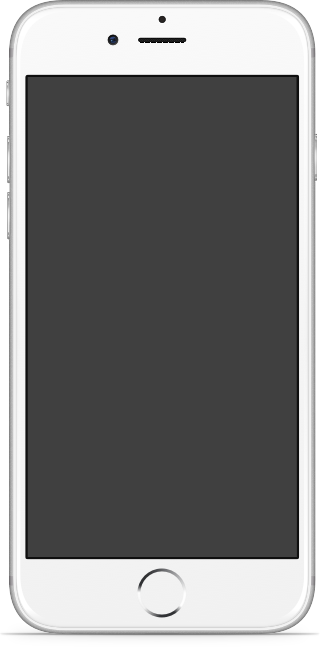
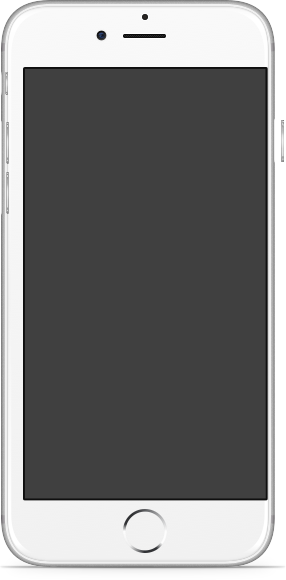
Swapped the Android phone to be in front of the iPhone (the screenshots are better), changed the &larr to be an inlined svg from the zeplin file. Added the basic crowdin.conf file.

Changed region(s): [[0.0, 0.0, 1.0, 0.9931], [0.5035, 0.031, 0.5315, 0.0621], [0.3357, 0.031, 0.3636, 0.0621]]

diff --git a/extensions/wikia/AppPromoLanding/AppPromoLandingController.class.php b/extensions/wikia/AppPromoLanding/AppPromoLandingController.class.php
@@ -155,14 +155,28 @@ class AppPromoLandingController extends WikiaController {
 		$this->numThumbsPerRow = self::THUMBS_PER_ROW;
 		$this->trendingArticles = $trendingArticles;
 		$this->mainPageUrl = Title::newMainPage()->getFullUrl();
-		$this->androidPhoneSrc = F::app()->wg->ExtensionsPath."/wikia/AppPromoLanding/images/nexus6.png";
-		//$this->androidScreenShot = "http://s3.amazonaws.com/wikia-mobile/android-screenshots/{$this->config->app_tag}/1.png"; // using our own domain is faster & cheaper than s3.
+		//$this->larrSrc = F::app()->wg->ExtensionsPath."/wikia/AppPromoLanding/images/arrow-left-long.svg";
+		$this->larrSvgCode = "<svg width=\"22px\" height=\"16px\" viewBox=\"0 0 22 16\" version=\"1.1\" xmlns=\"http://www.w3.org/2000/svg\" xmlns:xlink=\"http://www.w3.org/1999/xlink\">
+								<title>BB56E3FE-7480-48C0-96B3-848DAFB20649</title>
+								<desc>Created with sketchtool.</desc>
+								<defs></defs>
+								<g id=\"Landing-Page\" stroke=\"none\" stroke-width=\"1\" fill=\"none\" fill-rule=\"evenodd\">
+									<g id=\"1064\" transform=\"translate(-267.000000, -622.000000)\">
+										<g id=\"back-nav\" transform=\"translate(267.000000, 622.000000)\">
+											<path d=\"M21.99875,8.00025 C21.99875,7.44825 21.55175,7.00025 20.99875,7.00025 L3.41275,7.00025 L8.70575,1.70725 C9.09675,1.31625 9.09675,0.68425 8.70575,0.29325 C8.31475,-0.09775 7.68275,-0.09775 7.29175,0.29325 L0.29275,7.29225 C0.19975,7.38525 0.12675,7.49525 0.07575,7.61825 C-0.02525,7.86225 -0.02525,8.13825 0.07575,8.38225 C0.12675,8.50525 0.19975,8.61525 0.29275,8.70825 L7.29175,15.70725 C7.48675,15.90225 7.74275,16.00025 7.99875,16.00025 C8.25475,16.00025 8.51075,15.90225 8.70575,15.70725 C9.09675,15.31625 9.09675,14.68425 8.70575,14.29325 L3.41275,9.00025 L20.99875,9.00025 C21.55175,9.00025 21.99875,8.55225 21.99875,8.00025\" id=\"arrow-left-long\"></path>
+										</g>
+									</g>
+								</g>
+							</svg>";
+
+		$this->androidPhoneSrc = F::app()->wg->ExtensionsPath."/wikia/AppPromoLanding/images/nexus6_large.png";
 		$this->androidScreenShot = "http://wikia-mobile.nocookie.net/wikia-mobile/android-screenshots/{$this->config->app_tag}/1.png";
-		$this->iosPhoneSrc = F::app()->wg->ExtensionsPath."/wikia/AppPromoLanding/images/silverIphone.png";
-		//$this->iosScreenShot = "http://s3.amazonaws.com/wikia-mobile/ios-screenshots/{$this->config->app_tag}/en/4.7/4.png.PNGCRUSH.png"; // using our own domain is faster & cheaper than s3.
-		$this->iosScreenShot = "http://wikia-mobile.nocookie.net/wikia-mobile/ios-screenshots/{$this->config->app_tag}/en/4.7/4.png.PNGCRUSH.png";
 		$this->androidStoreSrc = F::app()->wg->ExtensionsPath."/wikia/AppPromoLanding/images/playStoreButton.png";
+		
+		$this->iosPhoneSrc = F::app()->wg->ExtensionsPath."/wikia/AppPromoLanding/images/silverIphone.png";
+		$this->iosScreenShot = "http://wikia-mobile.nocookie.net/wikia-mobile/ios-screenshots/{$this->config->app_tag}/en/4.7/4.png.PNGCRUSH.png";
 		$this->iosStoreSrc = F::app()->wg->ExtensionsPath."/wikia/AppPromoLanding/images/appleAppStoreButton.png";
+
 		$this->imgSpacing = 1; // spacing between the image-grid cells.
 
 		wfProfileOut( __METHOD__ );

diff --git a/extensions/wikia/AppPromoLanding/templates/AppPromoLanding_Content.php b/extensions/wikia/AppPromoLanding/templates/AppPromoLanding_Content.php
@@ -109,12 +109,12 @@ body.appPromo, body.appPromo::before, body.appPromo::after{
 	color:#<?= $config->action_bar_color; ?>;
 	font-size:18px;
 }
-.androidPhone{
+.iosPhone{
 	position:absolute;
 	top: <?= $thumbHeight * 0.55 ?>px;
 	left: <?= ($thumbWidth * 3.25) + ($imgSpacing * 3); ?>px;
 }
-.iosPhone{
+.androidPhone{
 	position:absolute;
 	top: <?= $thumbHeight * 0.33 ?>px;
 	left: <?= ($thumbWidth * 4) + ($imgSpacing * 4); ?>px;
@@ -135,16 +135,16 @@ body.appPromo, body.appPromo::before, body.appPromo::after{
 	left:0px;
 }
 .androidPhone .screenshot{
-	top:52px;
-	left:14px;
-	width:266px;
-	height:473px;
+	left:15px;
+	top:58px;
+	width:300px;
+	height:533px;
 }
 .iosPhone .screenshot{
-	top:77px;
-	left:28px;
-	width:269px;
-	height:480px;
+	left:24px;
+	top:69px;
+	width:241px;
+	height:430px;
 }
 #branchIoForm{
 	display:inline-block;
@@ -177,6 +177,13 @@ body.appPromo, body.appPromo::before, body.appPromo::after{
 	z-index:3;
 	color:#<?= $config->action_bar_color; ?>;
 	font-size:1.5em;
+}
+.backLink svg{
+	vertical-align:middle;
+	margin-right:10px;
+}
+svg path{
+	fill: currentColor;
 }
 </style>
 <?= $debug ?>
@@ -229,19 +236,19 @@ body.appPromo, body.appPromo::before, body.appPromo::after{
 					</div>
 				</div>
 			</div>
-			<div class='phoneWrapper androidPhone'>
-				<div class='phoneFrame'>
-					<img src='<?= $androidPhoneSrc ?>'/>
-					<div class='screenshot'>
-						<img src='<?= $androidScreenShot ?>' width='266' height='473'/>
-					</div>
-				</div>
-			</div>
 			<div class='phoneWrapper iosPhone'>
 				<div class='phoneFrame'>
 					<img src='<?= $iosPhoneSrc ?>'/>
 					<div class='screenshot'>
-						<img src='<?= $iosScreenShot ?>' width='269' height='480'/>
+						<img src='<?= $iosScreenShot ?>' width='241' height='430'/>
+					</div>
+				</div>
+			</div>
+			<div class='phoneWrapper androidPhone'>
+				<div class='phoneFrame'>
+					<img src='<?= $androidPhoneSrc ?>'/>
+					<div class='screenshot'>
+						<img src='<?= $androidScreenShot ?>' width='300' height='533'/>
 					</div>
 				</div>
 			</div>
@@ -249,7 +256,7 @@ body.appPromo, body.appPromo::before, body.appPromo::after{
 	</div>
 	<div class='belowThumbs'>
 		<a class='backLink' href='<?= $mainPageUrl ?>'>
-			<?= wfMsg( 'apppromolanding-back' ) ?>
+			<?= $larrSvgCode ?><?= wfMsg( 'apppromolanding-back' ) ?>
 		</a>
 	</div>
 </div>
@@ -349,6 +356,7 @@ Sub-tasks:
 			<li class='done'>Make sure the title of the Wiki stays as one word</li>
 		</ul>
 	</li>
-	<li>Swap the Android & iOS images (will get new art from Peter shortly)</li>
+	<li class='done'>Swap the Android & iOS images (will get new art from Peter shortly)</li>
+	<li class='done'>Change the font &larr; to be the SVG from zeplin</li>
 	<li>Translation config files & translation requests</li>
 </ul>

diff --git a/extensions/wikia/AppPromoLanding/AppPromoLanding.i18n.php b/extensions/wikia/AppPromoLanding/AppPromoLanding.i18n.php
@@ -9,7 +9,7 @@ $messages = array();
 
 $messages['en'] = array(
 	'apppromolanding-desc' => 'App Promo Landing Screen',
-	'apppromolanding-back' => '&larr; To the wiki',
+	'apppromolanding-back' => 'To the wiki',
 	'apppromolanding-pitch' => "The superfan's guide. Accurate, in-depth, created by fans.",
 	'apppromolanding-custompitch' => "The destination with everything and everyone you need to know about $1",
 	'apppromolanding-call-to-action' => "Get the free app now!",
